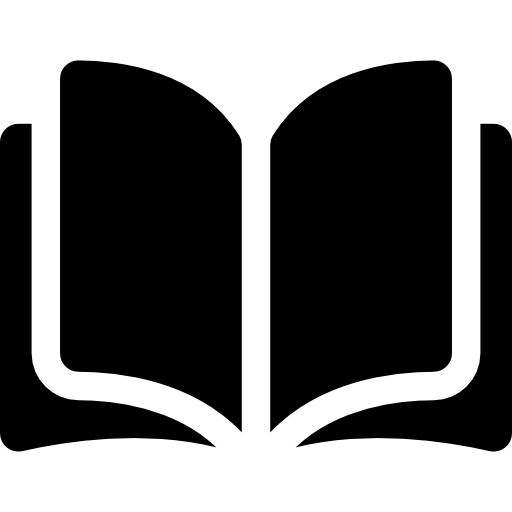
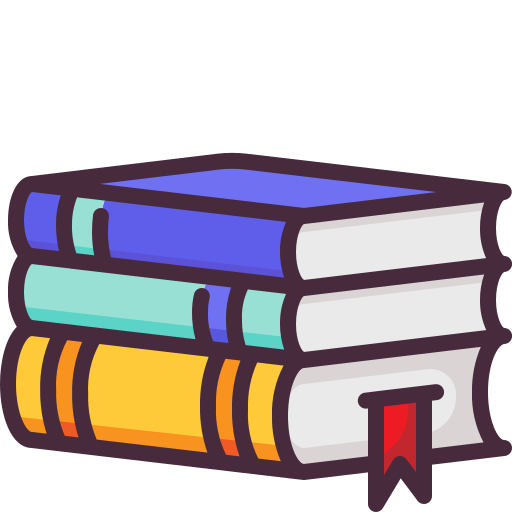
adding simple anomimation in to hero

diff --git a/achieve-academy-frontend/src/components/sections/Hero.tsx b/achieve-academy-frontend/src/components/sections/Hero.tsx
@@ -1,3 +1,7 @@
+import laptop from "../../assets/images/laptop.png";
+import cap from "../../assets/images/cap.png";
+import book from "../../assets/images/book.png";
+
 const stats = [
   {
     value: "5000+",
@@ -81,11 +85,47 @@ const Hero = () => {
 
           <div className="absolute h-96 w-96 rounded-full bg-lime-200/30 blur-3xl"></div>
 
-          <div className="relative h-[420px] w-full rounded-[40px] bg-white shadow-2xl">
+          <div className="relative h-[430px] w-full rounded-[36px] bg-gradient-to-br from-white via-[#FDFDFD] to-[#F3F7F2] shadow-[0_30px_70px_rgba(0,0,0,0.12)] overflow-hidden">
 
-            {/* Images Part 2 */}
+            {/* Glow */}
 
-          </div>
+            <div className="absolute left-12 top-12 h-48 w-48 rounded-full bg-lime-200/40 blur-3xl"></div>
+
+            <div className="absolute bottom-0 right-0 h-52 w-52 rounded-full bg-green-100/40 blur-3xl"></div>
+
+            <img
+                src={laptop}
+                alt="Laptop"
+                className="absolute left-8 top-32 w-60 animate-float-slow drop-shadow-2xl transition duration-500 hover:scale-105"
+                />
+
+                <img
+                src={cap}
+                alt="Graduation Cap"
+                className="absolute right-24 top-8 w-32 animate-float-medium transition duration-500 hover:rotate-6"
+                />
+
+                <img
+                src={book}
+                alt="Book"
+                className="absolute bottom-6 right-8 w-56 animate-float-fast drop-shadow-xl transition duration-500 hover:scale-105"
+                />
+
+            {/* Center Text */}
+
+            <div className="absolute left-1/2 top-1/2 -translate-x-1/2 -translate-y-1/2 text-center">
+
+                <h3 className="text-2xl font-bold text-[#063F37]">
+                FUTURE
+                <br />
+                LEARNING
+                <br />
+                HUB
+                </h3>
+
+            </div>
+
+            </div>
 
         </div>
 

diff --git a/achieve-academy-frontend/src/components/layout/Navbar.tsx b/achieve-academy-frontend/src/components/layout/Navbar.tsx
@@ -36,7 +36,7 @@ const Navbar = () => {
         {/* Logo */}
         <a href="#home" className="flex items-center gap-3">
           <img
-            src="/logo.png"
+            src="D:\Web Development project\Achieve-academy\achieve-academy-frontend\src\assets\images\logo.png"
             alt="Achieve Academy"
             className="h-10 w-10 rounded-md bg-white object-cover p-1"
           />
